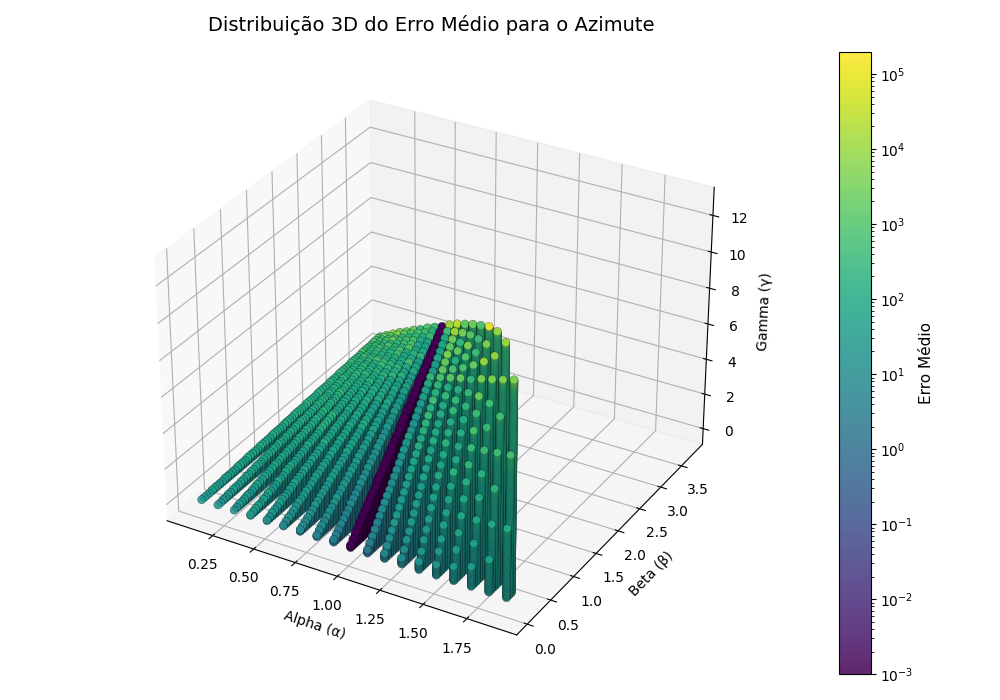
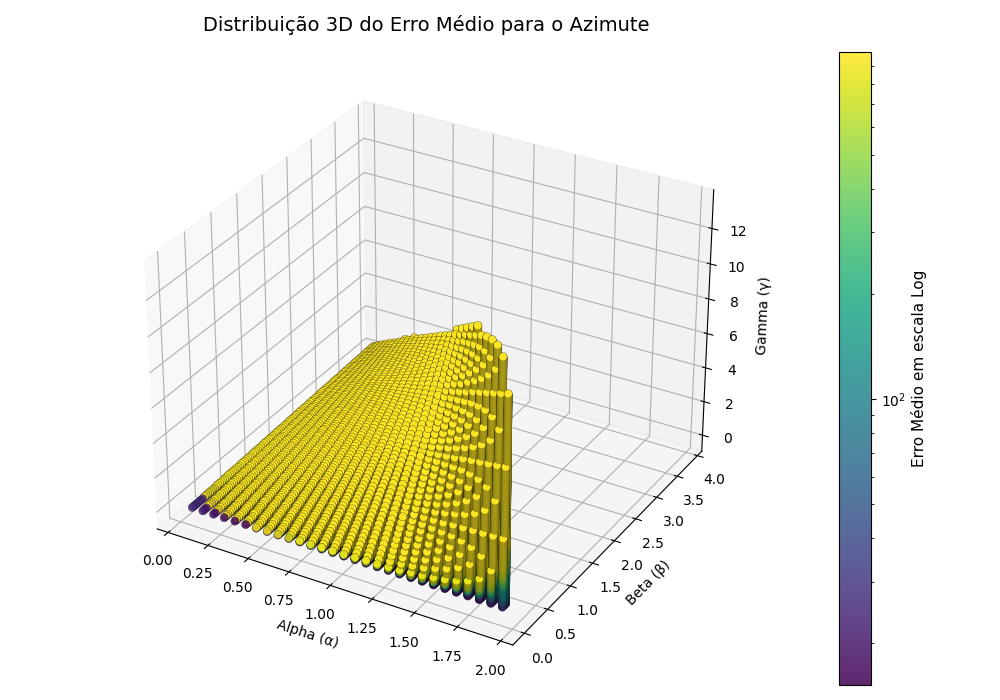
Made changes throughout the text

diff --git a/Docs/TG_IAR_Dissertacao/capitulos/resultados.tex b/Docs/TG_IAR_Dissertacao/capitulos/resultados.tex
@@ -20,17 +20,45 @@ Para o acionamento dos motores, foram adotados os drivers DRV8825, comumente enc
 A estrutura do poste foi dimensionada para utilizar um pontalete de madeira de \SI{7,5}{\centi\meter} $\times$ \SI{7,5}{\centi\meter}, enquanto a base foi projetada para tábuas de \SI{0,9}{\centi\meter} $\times$ \SI{9,5}{\centi\meter}. O fio de cobre maciço usado para a confecção da antena foi obtido a partir do desmembramento de um cabo de aterramento de 7 vias, no qual cada condutor individual possui bitola \SI{10}{AWG}.
 
 A tela de alumínio empregada no plano de terra foi adaptada de uma tela mosquiteira de alumínio de \SI{1}{\square\meter}. Já a chapa metálica complementar do plano de terra foi produzida a partir de um rufo para telhado.
-
+\begin{figure}[H]
+    \centering
+    \includegraphics[width=0.8\textwidth]{figs/antena_frontal.jpeg}
+    \caption{Visão frontal da antena utilizada no projeto.}
+    \caption*{Fonte: Autor (2026)}
+    \label{fig:antena_frontal}
+\end{figure}
 A estrutura de suporte da antena foi confeccionada via impressão 3D em PLA (ácido polilático), conforme ilustrado na Figura~\ref{fig:pecas_antena}. A baixa densidade do polímero somada ao preenchimento interno (\textit{infill}) de \SI{20}{\percent} resultou em uma massa de \SI{233}{\gram} para a estrutura plástica da antena.
 
-Somando-se aproximadamente \SI{82}{\gram} de cobre para a fiação, \SI{60}{\gram} da chapa e \SI{225}{\gram} da tela de alumínio, a estrutura completa da antena apresenta uma massa total de aproximadamente \SI{600}{\gram}. Essa massa reduzida torna o conjunto adequado para a operação com os motores especificados na Seção~\ref{sec:motor_passo}, garantindo a compatibilidade mecânica do sistema.
-\section{Levantamento dos Parâmetros do Filtro $\alpha-\beta-\gamma$}
+\begin{figure}[H]
+    \centering
+    \includegraphics[width=0.8\textwidth]{figs/antena_traseira.jpeg}
+    \caption{Visão traseira da antena utilizada no projeto.}
+    \caption*{Fonte: Autor (2026)}
+    \label{fig:antena_traseira}
+\end{figure}
 
-Conforme apresentado na Seção~\ref{sec:implementacao_filtro}, os parâmetros iniciais do filtro foram obtidos a partir de dados de rastreamento de diversos satélites de órbita baixa (LEO). 
+Somando-se aproximadamente \SI{82}{\gram} de cobre para a fiação, \SI{60}{\gram} da chapa e \SI{225}{\gram} da tela de alumínio, a estrutura completa da antena apresenta uma massa total de aproximadamente \SI{600}{\gram}. Além disso, existem alguns parafusos utilizados para a fixação dos componentes que não foram considerados na conta, porém, seu peso não fará o protótipo distoar do peso calculado. Essa massa reduzida torna o conjunto adequado para a operação com os motores especificados na Seção~\ref{sec:motor_passo}, garantindo a compatibilidade mecânica do sistema.
+
+\begin{figure}[H]
+    \centering
+    \includegraphics[width=0.8\textwidth]{figs/antena_peso.jpeg}
+    \caption{Superfície de desempenho dos parâmetros $\alpha$, $\beta$ e $\gamma$ para o eixo de azimute.}
+    \caption*{Fonte: Autor (2026)}
+    \label{fig:antena_peso}
+\end{figure}
+
+O cobre foi inserido no suporte helicoidal com um comprimento de sobra para ajustes futuros. Além disso, foi mantida uma região de cobre após o conector SMA para corrigir a impedância entre a antena helicoidal, com impedância característica por volta de \SI{140}{\ohm} \cite{balanis2016}, e aproximá-la da impedância na linha do amplificador (de \SI{50}{\ohm}). Isso será feito aproximando a primeira espira da antena ao plano terra, fazendo com que a componente capacitiva se torne mais presente na impedância da antena, fazendo com que a impedância vista no conector se aproxime de \SI{50}{\ohm}.
+O casamento de impedância é importante para permitir a máxima transferência de potência do sinal recebido pela antena \cite{balanis2016}.
+
+\section[Filtro Alfa Beta Gama]{Levantamento dos Parâmetros do Filtro $\alpha$-$\beta$-$\gamma$}
+
+Conforme apresentado na Seção \ref{sec:implementacao_filtro}, os parâmetros iniciais do filtro foram obtidos a partir de dados de rastreamento de diversos satélites de órbita baixa (LEO). 
 Em seguida, aplicou-se um método computacional de varredura sistemática (\textit{grid search}) para a otimização dos coeficientes, variando-se os parâmetros em incrementos de $0,1$ para $\alpha$ e $\beta$, e de $0,01$ para $\gamma$, respeitando os limites de estabilidade definidos pelo Critério de Jury (Seção~\ref{sec:estimation}).
 
-O desempenho do filtro para cada combinação de parâmetros foi avaliado ao longo das passagens dos satélites por meio do Erro Quadrático Médio (EQM). A partir desses resultados, geraram-se superfícies tridimensionais correlacionando os coeficientes ao menor erro obtido. 
+O desempenho do filtro para cada combinação de parâmetros foi avaliado ao longo das passagens dos satélites por meio do Erro Quadrático Médio (EQM, ou RMS em inglês). A partir desses resultados, geraram-se superfícies tridimensionais correlacionando os coeficientes ao menor erro obtido. 
 Essa representação permitiu identificar uma região operacional ótima, na qual o filtro $\alpha-\beta-\gamma$ apresenta convergência satisfatória para a maioria das trajetórias orbitais analisadas.
+A região em questão se encontra na região de valores $\gamma$ baixos, possuindo os menores erros entre os valores preditos e os reais.
+A partir dos valores obtidos, é possível verificar a região com menor erro RMS para cada elemento. Os valores para azimute foram de $\alpha = 0{,}9333$, $\beta = 0{,}0333$, e $\gamma = 0$, enquanto os valores para a elevação foram $\alpha = 0{,}9333$, $\beta = 0{,}2$, e $\gamma = 0$.
 
 \begin{figure}[htbp]
     \centering
@@ -48,8 +76,18 @@ Essa representação permitiu identificar uma região operacional ótima, na qua
     \label{fig:param_el}
 \end{figure}
 
-A partir dessa análise, definiram-se os parâmetros do filtro embarcado como $\alpha = 1{,}00$, $\beta = 0{,}05$ e $\gamma = 0{,}00$. Observa-se claramente a existência de uma região onde valores reduzidos de $\beta$ minimizam o erro de estimação. 
-Esse comportamento evidencia que a informação orbital fornecida pelo software permite manter a precisão do rastreamento da posição do satélite ao longo da trajetória, sem a introdução de ruídos perceptíveis.
+Como a aproximação anterior ocorreu de forma grosseira, dividindo os valores dentro de determinados quadrantes, foi desenvolvido um algoritmo para rastrear o melhor ponto a partir da melhor estimativa dada pelo método anterior.
+Esse segundo algoritmo funciona iniciando a sua pesquisa a partir do melhor ponto predito, alternando os parâmetros do filtro a partir de um determinado passo estimado como metade do passo que gerou os quadrantes anteriores.
+O código então alterna cada filtro entre o melhor parâmetro, o melhor parâmetro somado com o passo, e o melhor parâmetro subtraindo o passo.
+Com os filtros configurados, todas as amostras de passagem são novamente calculadas e o erro RMS é calculado para cada uma.
+O programa seleciona o filtro com o menor erro e repete o processo novamente. Quando o algoritmo não encontra um parâmetro menor que o parâmetro inicial, ele divide o passo utilizado pela metade e reinicia o cálculo.
+Quando o algoritmo repete os mesmos parâmetros de filtro um determinado número de vezes (para o caso do projeto, 15 vezes), o programa é encerrado e os valores calculados são determinados como os valores ótimos para o filtro.
 
-Consequentemente, uma vez estabelecida a estimativa inicial de velocidade do alvo pelo sistema, esta sofrerá apenas variações marginais durante o rastreio. 
-Essa característica confere robustez ao pedestal, permitindo que ele continue acompanhando a trajetória do satélite por um período prolongado, mesmo na ocorrência de eventuais interrupções temporárias na comunicação com o software de controle.
+Os valores obtidos continham 16 casas decimais, porém, nesse nível de precisão, erros de arredondamento em ponto flutuante acabam interferindo no resultado. Além disso, os parãmetros do filtro serão arredondados para baixo a fim de evitar instabilidades no sistema.
+Dessa forma, arredondando para três algarismos após a vírgula, foram obtidos $\alpha = 0{,}937$, $\beta = 0{,}298$, e $\gamma = 0.120$ para o azimute, e $\alpha = 1{,}071$, $\beta = 0{,}253$, e $\gamma = 0.122$ para a elevação
+
+% A partir dessa análise, definiram-se os parâmetros do filtro embarcado como $\alpha = 1{,}00$, $\beta = 0{,}05$ e $\gamma = 0{,}00$. Observa-se claramente a existência de uma região onde valores reduzidos de $\beta$ minimizam o erro de estimação. 
+% Esse comportamento evidencia que a informação orbital fornecida pelo software permite manter a precisão do rastreamento da posição do satélite ao longo da trajetória, sem a introdução de ruídos perceptíveis.
+
+% Consequentemente, uma vez estabelecida a estimativa inicial de velocidade do alvo pelo sistema, esta sofrerá apenas variações marginais durante o rastreio. 
+% Essa característica confere robustez ao pedestal, permitindo que ele continue acompanhando a trajetória do satélite por um período prolongado, mesmo na ocorrência de eventuais interrupções temporárias na comunicação com o software de controle.

diff --git a/Alfa_Beta_Gama_Tests/capture_check.py b/Alfa_Beta_Gama_Tests/capture_check.py
@@ -5,16 +5,16 @@ import matplotlib.pyplot as plt
 import random
 
 ALPHA_AZ = 0.937
-BETA_AZ = 0.3
-GAMMA_AZ = 0.1
-ALPHA_EL = 0.939
-BETA_EL = 0.17
-GAMMA_EL = 0.0
+BETA_AZ = 0.298
+GAMMA_AZ = 0.12
+ALPHA_EL = 1.0
+BETA_EL = 0.253
+GAMMA_EL = 0.122
 
 ERROR_TEST = False
-REMOVE_PERCENT = 10
+REMOVE_PERCENT = 1
 BURST_ERROR = True
-BURST_INDEXES = 5
+BURST_INDEXES = 10
 
 file_path = os.path.realpath(__file__)
 script_dir = Path(file_path).parent # Get the script path
@@ -44,12 +44,12 @@ def alfa_beta_gamma_filter_fast(x_obs, deltat, alpha, beta, gamma, filter_arr):
 
         erro = x_o - x_p
         # Unwrap function for the filter
-        x_o_plus  = x_o + 360
-        x_o_minus = x_o - 360
-        if abs(x_o_plus - x_p) < abs(erro):
-            erro = x_o_plus - x_p
-        if abs(x_o_minus - x_p) < abs(erro):
-            erro = x_o_minus - x_p
+        # x_o_plus  = x_o + 360
+        # x_o_minus = x_o - 360
+        # if abs(x_o_plus - x_p) < abs(erro):
+        #     erro = x_o_plus - x_p
+        # if abs(x_o_minus - x_p) < abs(erro):
+        #     erro = x_o_minus - x_p
 
         sum_sq_err += (x_o - x_p) ** 2
 
@@ -148,10 +148,10 @@ if __name__ == "__main__":
         t_az,az_filter, rmse_az, pred_t_az, pred_val_az = alfa_beta_gamma_filter_fast(az_data,real_tst,ALPHA_EL,BETA_EL,GAMMA_EL,filter_arr)
         t_el,el_filter, rmse_el, pred_t_el, pred_val_el = alfa_beta_gamma_filter_fast(el_data,real_tst,ALPHA_AZ,BETA_AZ,GAMMA_AZ,filter_arr)
         fig, ax = plt.subplots(figsize=(8, 6))
-        ax.plot(real_tst[:-2],az_data[:-2],'-',color="tab:blue")
-        ax.plot(real_tst[:-2],el_data[:-2],'-',color="tab:orange")
-        ax.plot(t_az,az_filter,'-.',color="tab:red")
-        ax.plot(t_el,el_filter,'-.',color="tab:green")
+        ax.plot(real_tst[:-2],az_data[:-2],'-',color="tab:blue",linewidth=2)
+        ax.plot(real_tst[:-2],el_data[:-2],'-',color="tab:orange",linewidth=2)
+        ax.plot(t_az,az_filter,':',color="tab:red",linewidth=3)
+        ax.plot(t_el,el_filter,':',color="tab:green",linewidth=3)
         if ERROR_TEST:
             ax.plot(pred_t_az,pred_val_az,'.',color="tab:purple")
             ax.plot(pred_t_el,pred_val_el,'.',color="tab:cyan")
@@ -162,7 +162,9 @@ if __name__ == "__main__":
         # Bottom Left
         # ax.text(0.05,0.05,f"RMS AZ: {rmse_az:.2f}\nRMS EL:{rmse_el:.2f}",bbox=props, horizontalalignment='left',verticalalignment='bottom',transform = ax.transAxes)
         # center Left
-        ax.text(0.05,0.5,f"RMS AZ: {rmse_az:.2f}\nRMS EL:{rmse_el:.2f}",bbox=props, horizontalalignment='left',verticalalignment='center',transform = ax.transAxes)
+        # ax.text(0.05,0.5,f"RMS AZ: {rmse_az:.2f}\nRMS EL:{rmse_el:.2f}",bbox=props, horizontalalignment='left',verticalalignment='center',transform = ax.transAxes)
+         # Top Left
+        ax.text(0.05,0.90,f"RMS AZ: {rmse_az:.2f}\nRMS EL:{rmse_el:.2f}",bbox=props, horizontalalignment='left',verticalalignment='top',transform = ax.transAxes)
         # Top Right
         # ax.text(0.95,0.90,f"RMS AZ: {rmse_az:.2f}\nRMS EL:{rmse_el:.2f}",bbox=props, horizontalalignment='right',verticalalignment='top',transform = ax.transAxes)
         ax.set_title("Ângulo do Satélite X Tempo")

diff --git a/Docs/TG_IAR_Dissertacao/dissertacao.tex b/Docs/TG_IAR_Dissertacao/dissertacao.tex
@@ -64,14 +64,15 @@
 \usepackage[style=abnt, backend=biber]{biblatex}
 \addbibresource{bibliografia.bib} % Verifique se o nome do seu arquivo .bib é este
 \usepackage{csquotes}
+\usepackage{float}
 % Configurações de CITAÇÕES para abntex2
-\include{extras/conf_citacoes}
+\input{extras/conf_citacoes}
 
 % Inclusão de dados para CAPA e FOLHA DE ROSTO (título, autor, orientador, etc.)
-\include{extras/dados}
+\input{extras/dados}
 
 % Inclui Configurações de aparência do PDF Final
-\include{extras/conf_pdf}
+\input{extras/conf_pdf}
 
 % O tamanho da identação do parágrafo é dado por:
 \setlength{\parindent}{1.3cm}
@@ -139,6 +140,7 @@
 % ---
 \begin{siglas}
   \item[D-H] Denavit-Hartenberg
+  \item[EQM] Erro Quadrático Médio
   \item[ESP32] Microcontrolador de Sistema em Chip da Espressif Systems
   \item[FreeRTOS] \textit{Free Real-Time Operating System}
   \item[HRPT] \textit{High Resolution Picture Transmission}
@@ -148,6 +150,7 @@
   \item[NEMA] \textit{National Electrical Manufacturers Association}
   \item[PWM] \textit{Pulse Width Modulation} (Modulação por Largura de Pulso)
   \item[RF] Radiofrequência
+  \item[RMS] Root Mean Square (Erro Quadrático Médio em inglês)
   \item[SAW] \textit{Surface Acoustic Wave} (Onda Acústica de Superfície)
   \item[SDR] \textit{Software Defined Radio} (Rádio Definido por Software)
   \item[TCP] \textit{Transmission Control Protocol}

diff --git a/Alfa_Beta_Gama_Tests/filtro_abg_neighbour.py b/Alfa_Beta_Gama_Tests/filtro_abg_neighbour.py
@@ -8,7 +8,7 @@ import ast
 import gc
 
 STEP = 0.1
-RETRY_TRIES = 5
+RETRY_TRIES = 15
 
 print("Carregando dados de azimute...")
 
@@ -207,7 +207,8 @@ while searching:
                 test_list = []
                 for stlt_pass in range(len(timestamp)):
                     _, rmse_el = filtro_abg_otimo_fast(timestamp[stlt_pass],el_data[stlt_pass], alpha_search, beta_search, gamma_search) # config_el, rmse_el = filtro_abg_otimo_fast(timestamp[stlt_pass],el_data[stlt_pass], alpha_search, beta_search, gamma_search)
-                    test_list.append(rmse_el)
+                    if rmse_el < 1.5e3:
+                        test_list.append(rmse_el)
                 mean_rmse = np.mean(test_list)
                 if mean_rmse < el_min_rms:
                     el_min_rms = mean_rmse
